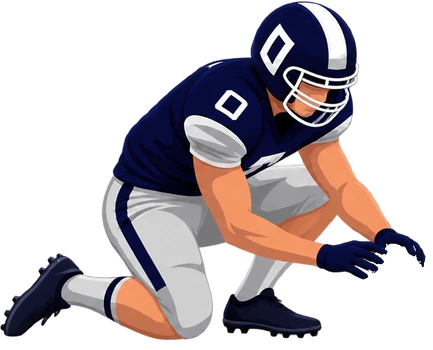
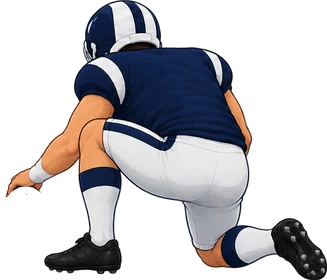
Kick It: the new art for the line, the kicker and the holder
The line is now pictures: our blockers from behind and the rush from the front, 16 poses from the new sheet packed
into one atlas (img/kick/line.webp). Ours sit in their stance, rise at the kick and block (hands up, or stepping
in); the rush charges off the ball, leaps with their arms up and lands, every other player turned the other way.
The kicker and holder are the new behind-the-kick art: the holder kneels at the ball's right with a hand on it
(empty once it's kicked), and the kicker waits back to the left, then steps in and plants beside the ball. The
earlier side-on kicker poses are gone; the football in the air stays.

tools/kick/sprites.py now builds these from the two pictures (the sheet's figures split by their connected shapes,
since raised arms reach into the row above). The drawn players stay as a stand-in until the pictures load.

Claude-Session: https://claude.ai/code/session_01AH8E1dTJHFZcRinqqkpkzG

diff --git a/js/views/kick.js b/js/views/kick.js
@@ -698,6 +698,7 @@ function drawFront(c, k, skin, num, crouch, arms) {
   [-1, 1].forEach(s => arm(c, k, skin, s, [s * .4, sh - .06], mixP([s * .5, sh - .32], [s * .56, sh + .32], arms), mixP([s * .3, Math.max(.1, sh - .68)], [s * .44, sh + .74], arms)));
 }
 function drawLine(st, c, side, f) {
+  if (spritesReady()) { drawLineArt(st, c, side === 'us', f); return; } // (the drawn players below till the pictures load)
   const us = side === 'us', k = KIT[side], t = f ? f.t : 0;
   // the rush leaps as the ball's kicked, pushing in a little, and comes back down; the blockers rise out of their stance
   const arms = f && !us ? Math.min(1, t / .15) : 0, jump = f && !us ? Math.max(0, Math.sin(Math.min(1, t / .8) * Math.PI)) : 0;
@@ -711,19 +712,28 @@ function drawLine(st, c, side, f) {
     c.restore();
   });
 }
-// ---------------------------------------------------------------- The kicker, the holder and the ball (sprites)
-// Pictures in img/kick/ (from the field-goal asset pack, preloaded once): the holder kneels at the ball's left, gloves
-// on it (the ball in the picture is the ball on the spot; once it's kicked, the same holder with empty gloves); the
-// kicker at its right, set to kick, then through the ball and following through till the next kick is set; the ball
-// in the air tumbling end over end. Each is placed by its anchor (in the picture's pixels: the ball's tip, the
-// kicker's foot) at a spot in the world, px a yard (yd) its scale; never stretched.
+// ---------------------------------------------------------------- The kicker, the holder, the line and the ball (sprites)
+// Pictures in img/kick/ (built by tools/kick/sprites.py, preloaded once), seen from behind like the camera, but for the
+// rush: the holder kneels at the ball's right, a hand on it (the ball in the picture is the ball on the spot; once it's
+// kicked, the same holder with the hand empty); the kicker waits back and to the left (a right-footed kicker's
+// approach), steps in as it's kicked and plants beside it, there till the next kick is set; the line (line.webp, a pose
+// from LINE_ART for each player, by how long since the kick); the ball in the air, tumbling end over end. Each is placed
+// by its anchor (in the picture's pixels: the ball's tip, the kicker's planted foot, a lineman's feet) at a spot in the
+// world, px a yard (yd) its scale; never stretched.
 const SPRITES = {
-  holder: {src: 'holder', ax: 398.4, ay: 349.2, yd: 288},
-  empty: {src: 'holder-empty', ax: 398.4, ay: 349.2, yd: 288},
-  set: {src: 'kicker-b', ax: 57, ay: 603.3, yd: 277.1},
-  kick: {src: 'kicker-a', ax: 53.9, ay: 510.9, yd: 277.1},
+  holder: {src: 'holder', ax: 25.5, ay: 264.5, yd: 249.4},
+  empty: {src: 'holder-empty', ax: 25.5, ay: 264.5, yd: 249.4},
+  kicker: {src: 'kicker', ax: 366.6, ay: 468.6, yd: 246.5},
+  line: {src: 'line', yd: 88},
   ball: {src: 'football', ax: 100, ay: 55, yd: 200 / .38}
 };
+// The line's poses in line.webp, [x, y, w, h, ax, ay] px. 0-7 ours, from behind: 0, 3 and 7 set, 1 rising, 2 and 6 hands
+// up, 4 and 5 stepping into a block. 8-15 the rush, from the front: 8 and 12 set, 9 and 10 charging, 11 hands up, 13 and
+// 14 leaping with their arms up, 15 landed, arms still up.
+const LINE_ART = [[4, 4, 127, 122, 63.3, 122], [135, 4, 131, 154, 64.7, 153.5], [270, 4, 128, 156, 63.5, 155], [402, 4, 129, 122, 65.7, 121.5],
+  [4, 164, 156, 147, 84.1, 146.5], [164, 164, 138, 142, 63.1, 141], [306, 164, 130, 146, 66.1, 145.5], [440, 164, 116, 121, 58.8, 120.5],
+  [4, 315, 134, 115, 65.8, 114.5], [142, 315, 118, 139, 58, 138.5], [264, 315, 110, 140, 59.2, 139], [378, 315, 116, 135, 57.3, 134.5],
+  [4, 459, 126, 110, 62.3, 110], [134, 459, 76, 154, 38.4, 154], [214, 459, 78, 142, 38.9, 141.5], [296, 459, 104, 124, 51.4, 123]];
 let SPRITES_LOADING = null;
 function loadSprites() {
   if (!SPRITES_LOADING) {
@@ -754,17 +764,42 @@ function shadowAt(st, c, x, z, w) {
 }
 const HOLD = {z: .02};
 function drawHolder(st, c, held) {
-  shadowAt(st, c, -.6, HOLD.z, .75);
+  shadowAt(st, c, .62, HOLD.z, .62);
   drawSprite(st, c, held ? SPRITES.holder : SPRITES.empty, 0, 0, HOLD.z);
 }
-// The kicker's set foot, beside the ball on its right; through the ball the kicking foot meets it (y: the ball's middle)
-// and carries on up a little.
-const KICKER = {x: .42, z: -.04};
+// Where the kicker's planted foot is: waiting back and to the left, then (as it's kicked) in beside the ball.
+const KICKER = {wait: {x: -1.1, z: -.85}, plant: {x: -.42, z: -.06}};
+function kickerAt(pose) {
+  const u = pose ? Math.min(1, pose.t / .14) : 0, e = 1 - (1 - u) * (1 - u), {wait: a, plant: b} = KICKER;
+  return {x: a.x + (b.x - a.x) * e, z: a.z + (b.z - a.z) * e, e};
+}
 function drawKicker(st, c, pose) {
-  if (!pose) { shadowAt(st, c, .95, KICKER.z, .7); drawSprite(st, c, SPRITES.set, KICKER.x, 0, KICKER.z); return; }
-  const u = Math.min(1, pose.t / .3), e = 1 - (1 - u) * (1 - u);
-  shadowAt(st, c, .75, KICKER.z, .7);
-  drawSprite(st, c, SPRITES.kick, .03 - .08 * e, .17 + .12 * e, KICKER.z, -.06 * e);
+  const k = kickerAt(pose);
+  shadowAt(st, c, k.x + .3, k.z, .55);
+  drawSprite(st, c, SPRITES.kicker, k.x, 0, k.z, -.06 * k.e);
+}
+// A player's pose (LINE_ART): ours set in their stance (a wing in a two-point stance), up out of it at the kick, then
+// blocking (hands up, or stepping in); the rush set, charging off the ball, leaping with their arms up, landing.
+function poseOf(us, i, f, wing) {
+  const t = f ? f.t : 0;
+  if (us) return !f ? (wing ? 7 : [0, 3, 0, 7, 3][i % 5]) : t < .12 ? 1 : [2, 4, 6, 5][i % 4];
+  return !f ? (i % 3 === 1 ? 12 : 8) : t < .14 ? (i % 2 ? 10 : 9) : t < .8 ? (i % 2 ? 14 : 13) : (i % 2 ? 11 : 15);
+}
+function drawLineArt(st, c, us, f) {
+  const t = f ? f.t : 0, sp = SPRITES.line;
+  const leap = f && !us && t >= .14 && t < .8 ? Math.sin((t - .14) / .66 * Math.PI) * .45 : 0, surge = f && !us ? Math.min(1, t / .5) * .35 : 0;
+  // (spread a little wider than the drawn players: the pictures are broader)
+  (us ? US : THEM).map(([x, num, back = 0], i) => ({x: x * 1.18, i, wing: !!back, z: K.LINE.z + (us ? -.5 - back : .6 - surge)})).sort((a, b) => b.z - a.z).forEach(p => {
+    const b = proj(st, p.x, 0, p.z), fr = LINE_ART[poseOf(us, p.i, f, p.wing)], k = b.s / sp.yd;
+    if (b.s <= 0 || b.x < -b.s * 1.5 || b.x > st.W + b.s * 1.5) return;
+    c.fillStyle = 'rgba(0,0,0,.28)'; c.beginPath(); c.ellipse(b.x, b.y, .5 * b.s, .12 * b.s, 0, 0, Math.PI * 2); c.fill();
+    c.save();
+    c.translate(b.x, b.y - leap * b.s);
+    if (p.i % 2) c.scale(-1, 1); // every other one the other way round, so the line isn't all the same
+    c.imageSmoothingEnabled = true; c.imageSmoothingQuality = 'high';
+    c.drawImage(sp.im, fr[0], fr[1], fr[2], fr[3], -fr[4] * k, -fr[5] * k, fr[2] * k, fr[3] * k);
+    c.restore();
+  });
 }
 /** The ball in the air: tumbling end over end (seen from behind, as long as it shows its length), never too small to follow. */
 function drawFlying(st, c, b, spin) {
@@ -861,7 +896,7 @@ function draw(st, now = performance.now()) {
   items.push({z: K.LINE.z + .6, ob: true, draw: () => drawLine(st, c, 'them', pose)}, {z: K.LINE.z - .5, draw: () => drawLine(st, c, 'us', pose)});
   // the holder (with the ball on the spot in hand, till it's kicked) and the kicker; the ball in the air
   const held = st.ballOn !== false && !f, sprites = spritesReady();
-  if (sprites) items.push({z: HOLD.z, draw: () => drawHolder(st, c, held)}, {z: KICKER.z, draw: () => drawKicker(st, c, pose)});
+  if (sprites) items.push({z: HOLD.z, draw: () => drawHolder(st, c, held)}, {z: kickerAt(pose).z, draw: () => drawKicker(st, c, pose)});
   if (st.ballOn !== false && (f || !sprites)) items.push({z: ball.z, draw: () => (sprites ? drawFlying(st, c, ball, spin) : drawBall(st, c, ball, spin, !f))});
   items.sort((p, q) => q.z - p.z);
   const lastOb = items.map(x => !!x.ob).lastIndexOf(true);

diff --git a/sw.js b/sw.js
@@ -7,7 +7,7 @@
 // A slow request falls back to whatever is cached under its path (from the previous worker too), so data whose
 // format changes gets a new file name rather than new content under the old one (data/puzzles-v4.json: see
 // js/core/daily.js).
-const CACHE = 'gg-v213';
+const CACHE = 'gg-v214';
 const CORE = ['ui', 'data', 'daily', 'fire', 'week', 'nfl', 'stats', 'motw', 'press', 'checks', 'checks-stats', 'checks-pickem', 'checks-press', 'checks-seventeen', 'checks-drill', 'checks-kick', 'lay', 'plays', 'laytrack', 'seventeen', 'drill-sim', 'drill', 'kick', 'avatars'];
 // The six tab roots are puzzles, pickem, rivals (Matchup), league, moves (Draft) and lay (The Lay).
 const VIEWS = ['welcome', 'guest', 'puzzles', 'board', 'you', 'sharecard', 'results', 'run', 'college', 'silhouette', 'mystery', 'journey', 'grid', 'picker',
@@ -22,7 +22,7 @@ const SHELL = [
   'js/app.js', ...CORE.map(m => `js/core/${m}.js`),
   ...VIEWS.map(v => `js/views/${v}.js`),
   'fonts/barlow-condensed-800.woff2', 'fonts/press-start-2p.woff2', 'fonts/vt323.woff2', 'img/logo.webp', 'img/nfl.webp', 'img/ncaa.webp', 'img/puzzles.webp', 'img/seventeen.webp', 'img/drill.webp', 'img/kick.webp',
-  'img/kick/holder.webp', 'img/kick/holder-empty.webp', 'img/kick/kicker-a.webp', 'img/kick/kicker-b.webp', 'img/kick/football.webp',
+  'img/kick/holder.webp', 'img/kick/holder-empty.webp', 'img/kick/kicker.webp', 'img/kick/line.webp', 'img/kick/football.webp',
   'icons/hub-192.png', 'icons/hub-512.png', 'icons/hub-maskable-512.png', 'icons/hub-apple-180.png',
   'data/league.json', 'data/pressers.json', 'data/lay.json', 'data/puzzles-v4.json', 'data/nfl-players.json', 'data/seventeen.json', 'data/drill.json'
 ];

diff --git a/tools/kick/sprites.py b/tools/kick/sprites.py
@@ -1,51 +1,132 @@
-# Kick It's sprites (img/kick/*.webp) from the field-goal asset pack's PNGs: trims stray bits at the edges, crops,
-# scales, makes the holder with empty gloves (the ball taken out), and prints each picture's anchor and scale for
-# SPRITES in js/views/kick.js.
-#   python3 tools/kick/sprites.py <the pack's folder> img/kick
-import sys
+# Kick It's sprites (img/kick/*.webp) from the art: the line sheet (a 4 x 4 sheet: rows 1-2 our blockers from behind,
+# rows 3-4 the rush from the front) and the kicker and holder from behind (one picture, the kicker at its left, the
+# holder kneeling with the ball at its right).
+#   python3 tools/kick/sprites.py <line sheet.png> <kicker and holder.png> img/kick
+# The sheet's figures overlap their neighbours' cells a little (arms up reach into the row above), so each figure is
+# its connected shapes, gathered by the cell their middle falls in. Every figure is cropped, scaled to the same px a
+# yard and packed into one atlas (line.webp); the kicker, the holder and the holder with empty hands (the ball taken
+# out) are pictures of their own. Prints the frames and anchors for SPRITES and LINE_ART in js/views/kick.js.
+# (football.webp, the ball in the air, came from the earlier field-goal asset pack.)
+import sys, json
+from collections import deque
+import numpy as np
 from PIL import Image
-src, out = sys.argv[1], sys.argv[2]
-def load(n):
-    im = Image.open(f'{src}/{n}').convert('RGBA')
-    a = im.getchannel('A').point(lambda v: 0 if v <= 8 else min(255, int(v * 255 / 253)))
-    im.putalpha(a)
-    return im
-def crop(im):
-    box = im.getchannel('A').getbbox()
-    return im.crop(box), box
-def save(im, name, k):
-    im = im.resize((round(im.width * k), round(im.height * k)), Image.LANCZOS)
-    im.save(f'{out}/{name}.webp', 'WEBP', quality=90, method=6)
-    return im.size
-res = {}
-# the kicker, winding up (B: a stray bit of ball at its left edge goes) and following through (A)
-kb = load('kicker_pose_B.png'); p = kb.load()
-for y in range(720, kb.height):
-    for x in range(0, 32): p[x, y] = (0, 0, 0, 0)
-ka = load('kicker_pose_A.png')
-K = .62
-for name, im, anchor in (('kicker-b', kb, (110, 975)), ('kicker-a', ka, (95, 835))):
-    c, box = crop(im)
-    size = save(c, name, K)
-    res[name] = {'w': size[0], 'h': size[1], 'ax': round((anchor[0] - box[0]) * K, 1), 'ay': round((anchor[1] - box[1]) * K, 1), 'pxPerYd': round(447 * K, 1)}
-# the holder with the ball, and without it (after the kick: the gloves stay, the ball's gone)
-ha = load('holder_pose_A.png')
-he = ha.copy(); p = he.load()
-cx, cy, rx, ry = 682, 508, 60, 94
-for y in range(cy - ry, min(he.height, cy + ry + 1)):
-    for x in range(cx - rx, min(he.width, cx + rx + 1)):
-        if ((x - cx) / rx) ** 2 + ((y - cy) / ry) ** 2 > 1: continue
-        r, g, b, a = p[x, y]
-        glove = b > r + 12 and b > g + 8 and max(r, g, b) < 170
-        if not glove: p[x, y] = (0, 0, 0, 0)
-H = .6
-c, box = crop(ha)
-size = save(c, 'holder', H)
-res['holder'] = {'w': size[0], 'h': size[1], 'ax': round((682 - box[0]) * H, 1), 'ay': round((598 - box[1]) * H, 1), 'pxPerYd': round(480 * H, 1)}
-ce = he.crop(box)
-save(ce, 'holder-empty', H)
-# the ball
-fb = load('football.png'); c, box = crop(fb)
-size = save(c, 'football', 200 / c.width)
-res['football'] = {'w': size[0], 'h': size[1]}
-for k, v in res.items(): print(k, v)
+
+line_src, kh_src, out = sys.argv[1], sys.argv[2], sys.argv[3]
+
+def load(p):
+    im = Image.open(p).convert('RGBA')
+    a = np.array(im)
+    al = a[:, :, 3].astype(np.int32)
+    al[al <= 8] = 0                                  # the near-invisible fringe some edges carry
+    al = np.minimum(255, (al * 255) // 253)          # solid where the art is (it stops at 253)
+    a[:, :, 3] = al.astype(np.uint8)
+    return a
+
+def components(mask, k=2):
+    """Connected shapes of a mask (looked at k x k px at a time): a list of (pixel count, ys, xs) at full size."""
+    small = mask[::k, ::k]
+    h, w = small.shape
+    seen = np.zeros_like(small, dtype=bool)
+    out = []
+    for y0, x0 in zip(*np.nonzero(small)):
+        if seen[y0, x0]: continue
+        q = deque([(y0, x0)]); seen[y0, x0] = True; pts = []
+        while q:
+            y, x = q.popleft(); pts.append((y, x))
+            for dy, dx in ((1, 0), (-1, 0), (0, 1), (0, -1), (1, 1), (-1, -1), (1, -1), (-1, 1)):
+                ny, nx = y + dy, x + dx
+                if 0 <= ny < h and 0 <= nx < w and small[ny, nx] and not seen[ny, nx]:
+                    seen[ny, nx] = True; q.append((ny, nx))
+        ys = np.array([p[0] for p in pts]) * k; xs = np.array([p[1] for p in pts]) * k
+        out.append((len(pts), ys, xs))
+    return out
+
+def save(img, name, q=90):
+    img.save(f'{out}/{name}.webp', 'WEBP', quality=q, method=6)
+
+# ---- the line: 16 figures, packed into one atlas at LK of the sheet's size
+sheet = load(line_src)
+H, W = sheet.shape[:2]
+cw, ch = W / 4, H / 4
+mask = sheet[:, :, 3] > 100
+cells = {}
+for n, ys, xs in components(mask):
+    if n < 25: continue                              # specks
+    cy, cx = ys.mean(), xs.mean()
+    key = (min(3, int(cy // ch)), min(3, int(cx // cw)))
+    cells.setdefault(key, []).append((ys, xs))
+LK = .5
+frames, tiles = [], []
+for r in range(4):
+    for c in range(4):
+        parts = cells.get((r, c), [])
+        fm = np.zeros(mask.shape, dtype=bool)
+        for ys, xs in parts:
+            for dy in (0, 1):
+                for dx in (0, 1):
+                    fm[np.clip(ys + dy, 0, H - 1), np.clip(xs + dx, 0, W - 1)] = True
+        # grow the shape a little so its soft edge comes along
+        g = fm.copy()
+        for _ in range(3):
+            g[1:, :] |= g[:-1, :]; g[:-1, :] |= g[1:, :]; g[:, 1:] |= g[:, :-1]; g[:, :-1] |= g[:, 1:]
+        a = sheet.copy(); a[~g, 3] = 0
+        ys, xs = np.nonzero(a[:, :, 3] > 100)
+        y0, y1, x0, x1 = ys.min(), ys.max() + 1, xs.min(), xs.max() + 1
+        crop = Image.fromarray(a[y0:y1, x0:x1])
+        # the anchor: under the figure's middle (its weight), at the bottom of the lowest cleat (or hand on the turf)
+        ax, ay = xs.mean() - x0, ys.max() - y0
+        tw, th = round(crop.width * LK), round(crop.height * LK)
+        tiles.append(crop.resize((tw, th), Image.LANCZOS))
+        frames.append({'r': r, 'c': c, 'w': tw, 'h': th, 'ax': round(ax * LK, 1), 'ay': round(ay * LK, 1)})
+# pack 4 a row
+pad = 4
+rowsh = [max(t.height for t in tiles[i:i + 4]) for i in range(0, 16, 4)]
+AW = max(sum(t.width for t in tiles[i:i + 4]) + pad * 5 for i in range(0, 16, 4))
+atlas = Image.new('RGBA', (AW, sum(rowsh) + pad * 5), (0, 0, 0, 0))
+y = pad
+for i in range(0, 16, 4):
+    x = pad
+    for j, t in enumerate(tiles[i:i + 4]):
+        atlas.paste(t, (x, y)); frames[i + j].update({'x': x, 'y': y}); x += t.width + pad
+    y += rowsh[i // 4] + pad
+save(atlas, 'line', 88)
+print('line atlas', atlas.size, 'px a yard', round(250 * LK))
+print('LINE_ART frames (x, y, w, h, ax, ay):')
+print(json.dumps([[f['x'], f['y'], f['w'], f['h'], f['ax'], f['ay']] for f in frames]))
+
+# ---- the kicker and the holder
+kh = load(kh_src)
+H2, W2 = kh.shape[:2]
+KK = .58
+parts = [p for p in components(kh[:, :, 3] > 100) if p[0] >= 25]
+left = np.zeros(kh.shape[:2], dtype=bool); right = np.zeros(kh.shape[:2], dtype=bool)
+for n, ys, xs in parts:
+    tgt = left if xs.mean() < W2 * .55 else right
+    for dy in (0, 1):
+        for dx in (0, 1):
+            tgt[np.clip(ys + dy, 0, H2 - 1), np.clip(xs + dx, 0, W2 - 1)] = True
+def figure(m, name, anchor):
+    g = m.copy()
+    for _ in range(3):
+        g[1:, :] |= g[:-1, :]; g[:-1, :] |= g[1:, :]; g[:, 1:] |= g[:, :-1]; g[:, :-1] |= g[:, 1:]
+    a = kh.copy(); a[~g, 3] = 0
+    ys, xs = np.nonzero(a[:, :, 3] > 100)
+    y0, y1, x0, x1 = ys.min(), ys.max() + 1, xs.min(), xs.max() + 1
+    return a[y0:y1, x0:x1], (anchor[0] - x0, anchor[1] - y0)
+kicker, kanc = figure(left, 'kicker', (805, 828))           # the planted foot
+holder, hanc = figure(right, 'holder', (1151, 818))          # the ball's tip on the turf
+def out_img(a, name):
+    im = Image.fromarray(a); im = im.resize((round(im.width * KK), round(im.height * KK)), Image.LANCZOS); save(im, name); return im.size
+ks = out_img(kicker, 'kicker'); hs = out_img(holder, 'holder')
+# the holder's hand with no ball under it: the ball's leather and laces go, the hand on top stays
+e = holder.copy()
+cx, cy, rx, ry = hanc[0], hanc[1] - 66, 47, 69
+yy, xx = np.mgrid[0:e.shape[0], 0:e.shape[1]]
+inside = ((xx - cx) / rx) ** 2 + ((yy - cy) / ry) ** 2 <= 1
+r_, g_, b_ = e[:, :, 0].astype(int), e[:, :, 1].astype(int), e[:, :, 2].astype(int)
+skin = (r_ > 170) & (g_ > 105) & (b_ > 70) & (r_ - b_ > 40) & (r_ - g_ < 90)
+e[inside & ~skin, 3] = 0
+out_img(e, 'holder-empty')
+print('kicker', ks, 'anchor', [round(v * KK, 1) for v in kanc], 'px a yard', round(425 * KK, 1))
+print('holder', hs, 'anchor', [round(v * KK, 1) for v in hanc], 'px a yard', round(430 * KK, 1))
